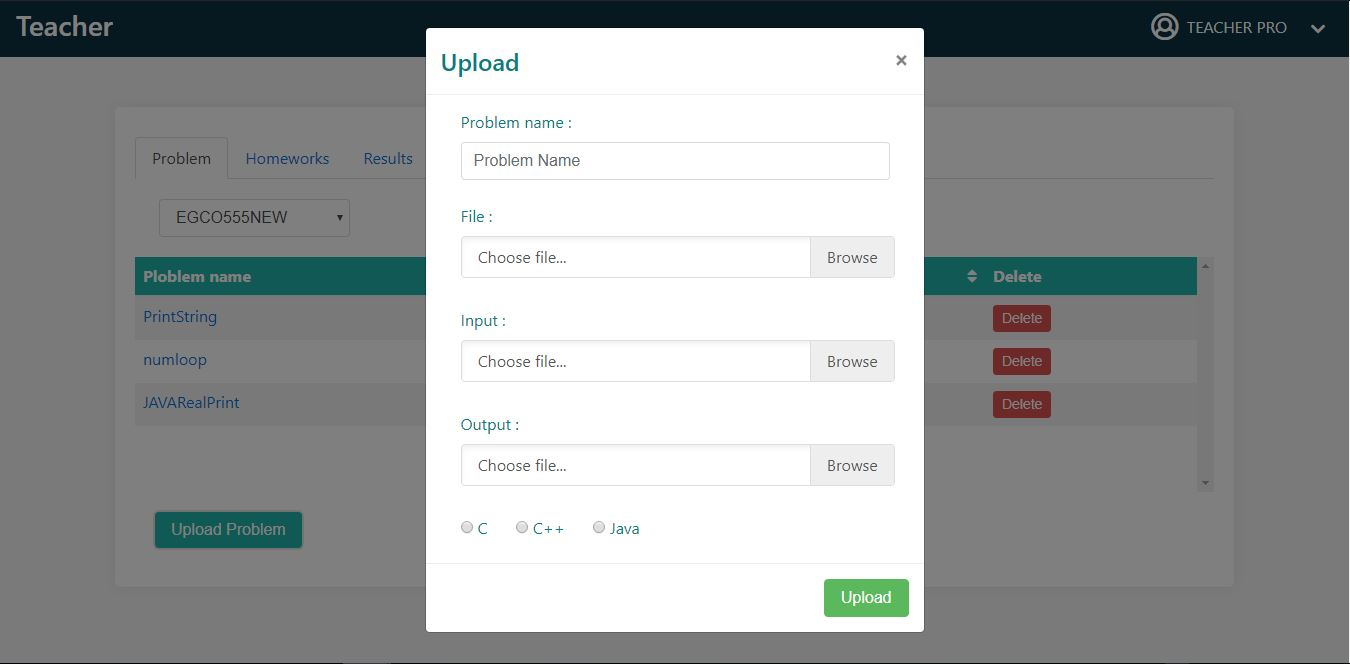
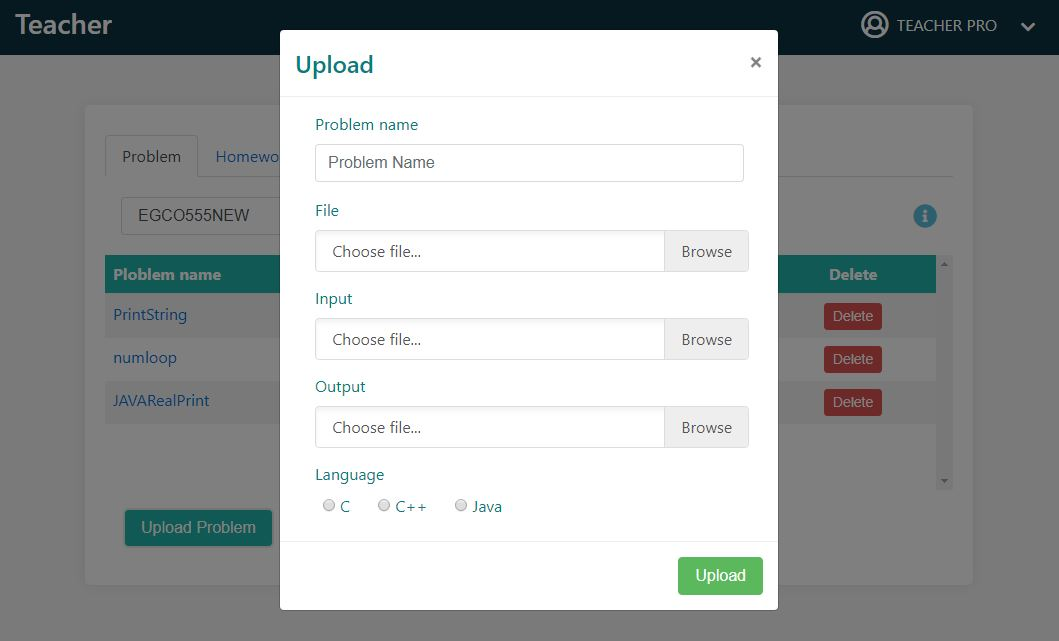
edit tooltip

diff --git a/Project/TeacherUpload2.php b/Project/TeacherUpload2.php
@@ -829,7 +829,7 @@
                           <img class="d-block img-fluid" src="./images/t-problem.JPG" alt="First slide">
                         </div>
                         <div class="carousel-item">
-                          <img class="d-block img-fluid" src="./images/t-modal-uploadProblem1.JPG" alt="Second slide">
+                          <img class="d-block img-fluid" src="./images/t-modal-uploadProblem.JPG" alt="Second slide">
                         </div>
                       </div>
                       <a class="carousel-control-prev" href="#carouselExampleIndicators" role="button" data-slide="prev">
@@ -1019,7 +1019,8 @@
                     <div id="carouselExampleIndicators2" class="carousel slide" data-ride="carousel">
                       <ol class="carousel-indicators">
                         <li data-target="#carouselExampleIndicators2" data-slide-to="0" class="active"></li>
-                        <li data-target="#carouselExampleIndicators2" data-slide-to="1"></li> 
+                        <li data-target="#carouselExampleIndicators2" data-slide-to="1"></li>
+                        <li data-target="#carouselExampleIndicators2" data-slide-to="2"></li> 
                       </ol>
                       <div class="carousel-inner" role="listbox">
                         <div class="carousel-item active">
@@ -1027,6 +1028,9 @@
                         </div>
                         <div class="carousel-item">
                           <img class="d-block img-fluid" src="./images/t-modal-createSection.JPG" alt="Second slide">
+                        </div>
+                        <div class="carousel-item">
+                          <img class="d-block img-fluid" src="./images/t-modal-assignHomework.JPG" alt="Third slide">
                         </div>
                       </div>
                       <a class="carousel-control-prev" href="#carouselExampleIndicators2" role="button" data-slide="prev">
@@ -1449,7 +1453,49 @@
                   <option value="">Please Select Section</option>
               </select>
             </div>
-            <i class="fa fa-info-circle mx-3" style="color:#5bc0de; font-size:1.5rem;"></i>
+            <i class="fa fa-info-circle mx-3" style="color:#5bc0de; font-size:1.5rem;" data-toggle="modal" data-target="#info3"></i>
+            
+            <!-- Modal -->
+            <div class="modal fade" id="info3" tabindex="-1" role="dialog" aria-labelledby="modelTitleId" aria-hidden="true">
+              <div class="modal-dialog modal-lg-custom" role="document">
+                <div class="modal-content">
+                  <div class="modal-header" hidden>
+                    <button type="button" class="close" data-dismiss="modal" aria-label="Close">
+                      <span aria-hidden="true">&times;</span>
+                    </button>
+                    <h4 class="modal-title" id="modelTitleId">Modal title</h4>
+                  </div>
+                  <div class="modal-body">
+                    <div id="carouselExampleIndicators3" class="carousel slide" data-ride="carousel">
+                      <ol class="carousel-indicators">
+                        <li data-target="#carouselExampleIndicators3" data-slide-to="0" class="active"></li>
+                        <li data-target="#carouselExampleIndicators3" data-slide-to="1"></li> 
+                      </ol>
+                      <div class="carousel-inner" role="listbox">
+                        <div class="carousel-item active">
+                          <img class="d-block img-fluid" src="./images/t-result.JPG" alt="First slide">
+                        </div>
+                        <div class="carousel-item">
+                          <img class="d-block img-fluid" src="./images/t-modal-uploadProblem.JPG" alt="Second slide">
+                        </div>
+                      </div>
+                      <a class="carousel-control-prev" href="#carouselExampleIndicators3" role="button" data-slide="prev">
+                        <span class="carousel-control-prev-icon" aria-hidden="true"></span>
+                        <span class="sr-only">Previous</span>
+                      </a>
+                      <a class="carousel-control-next" href="#carouselExampleIndicators3" role="button" data-slide="next">
+                        <span class="carousel-control-next-icon" aria-hidden="true"></span>
+                        <span class="sr-only">Next</span>
+                      </a>
+                    </div>
+                  </div>
+                  <div class="modal-footer" hidden>
+                    <button type="button" class="btn btn-secondary" data-dismiss="modal">Close</button>
+                    <button type="button" class="btn btn-primary">Save</button>
+                  </div>
+                </div>
+              </div>
+            </div>
 
           </form>
 
@@ -1590,15 +1636,13 @@
                     </tbody>
                     <div class="container">
 
-                      <div class="row">
-                        <div class="col-xs-1 col-sm-1 col-md-5 col-lg-5">
-                          <h5 id='submitCount'></h5>
-                        </div>
-                        <div class="col-xs-1 col-sm-1 col-md-3 col-lg-3">
-                          <input type="text" style="border:none; text-align:right;" name="setMark" id='setMark' placeholder="Mark">
-                        </div>
-                        <div class="col-xs-1 col-sm-1 col-md-2 col-lg-2">
-                          <h5 id='fullMark' name='fullMark'>/Full mark</h5>
+                      <div class="form-inline mx-2 justify-content-between">
+                        <!-- <div class="col-xs-1 col-sm-1 col-md-5 col-lg-5"> -->
+                          <h6 id='submitCount'></h6>
+                        <!-- </div> -->
+                        <div class="form-inline">
+                          <input type="text" style="width:50px; text-align:right;" name="setMark" id='setMark' placeholder="Mark">
+                          <h6 id='fullMark' name='fullMark'>/Full mark</h6>
                         </div>
                       </div>
 

diff --git a/Project/FillGetTableProblemT.php b/Project/FillGetTableProblemT.php
@@ -30,7 +30,7 @@
       echo "<a href = 'Problem/$FN' target = '_blank' data-toggle='tooltip' data-placement='bottom' title='Click for view problem'>$PN</a>";
       echo "</td>";
       echo "<td style='width:13%'>";
-      echo "<input type='text' class='form-control' style='width:50%' id = '$fullMarkName' placeholder='Mark'/>";
+      echo "<input type='text' class='form-control' style='width:50%; text-align:right;' id = '$fullMarkName' placeholder='Mark'/>";
       echo "</td>";
       echo "<td style='width:10%; text-align:center;'>";
       echo "$LN";
